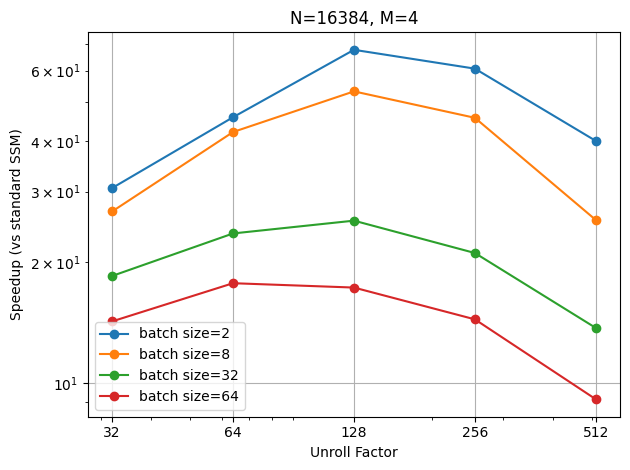
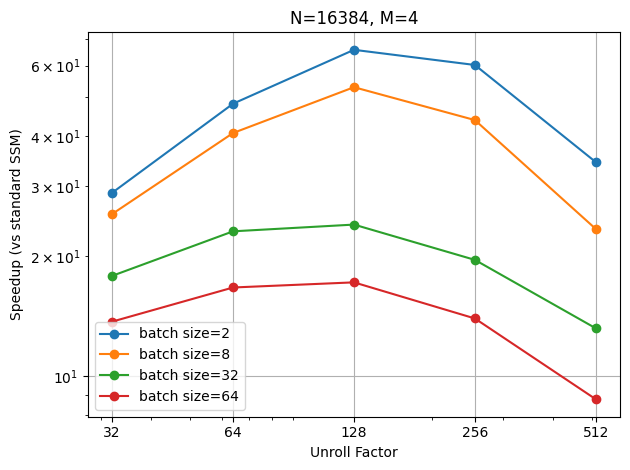
update benchmark results

diff --git a/_posts/2025-06-27-unroll-ssm.md b/_posts/2025-06-27-unroll-ssm.md
@@ -112,15 +112,15 @@ naive_allpole_t = Timer(
 naive_allpole_t.blocked_autorange(min_run_time=1.0)
 ```
 ```shell
-<torch.utils.benchmark.utils.common.Measurement object at 0x7d60c6a20770>
+<torch.utils.benchmark.utils.common.Measurement object at 0x71508416b950>
 naive_allpole
 Naive All-Pole Filter
-  Median: 165.85 ms
-  IQR:    4.73 ms (163.46 to 168.19)
+  Median: 182.59 ms
+  IQR:    5.00 ms (180.77 to 185.77)
   6 measurements, 1 runs per measurement, 4 threads
 ```
 
-165.85 ms is relatively slow, but it is expected.
+182.59 ms is relatively slow, but it is expected.
 
 ## State-space model formulation
 
@@ -149,7 +149,7 @@ y[n] &= \mathbf{B}^\top \mathbf{h}[n].
 $$
 
 Here, I simplified the original SSM by omitting the direct path, as it can be derived from the state vector (for the all-pole filter only).
-Here's the PyTorch implementation of it:
+Below is the PyTorch implementation of it:
 
 ```python
 @torch.jit.script
@@ -219,15 +219,15 @@ state_space_allpole_t = Timer(
 state_space_allpole_t.blocked_autorange(min_run_time=1.0)
 ```
 ```shell
-<torch.utils.benchmark.utils.common.Measurement object at 0x7d62d32a5160>
+<torch.utils.benchmark.utils.common.Measurement object at 0x714e42f440b0>
 state_space_allpole
 State-Space All-Pole Filter
-  Median: 115.29 ms
-  IQR:    1.47 ms (114.87 to 116.34)
-  9 measurements, 1 runs per measurement, 4 threads
+  Median: 130.03 ms
+  IQR:    3.13 ms (128.76 to 131.89)
+  8 measurements, 1 runs per measurement, 4 threads
 ```
 
-Interestingly, the SSM implementation is approximately 30 ms faster.
+Interestingly, the SSM implementation is approximately 50 ms faster.
 
 By using `torch.profiler.profile`, I found that, in the naive implementation, `torch.cat` for updating the last M outputs accounts for a significant portion of the total time (~20%).
 The actual computation, `torch.addmv`, takes only about 10% of the time.
@@ -406,16 +406,16 @@ state_space_allpole_unrolled_t = Timer(
 state_space_allpole_unrolled_t.blocked_autorange(min_run_time=1.0)
 ```
 ```shell
-<torch.utils.benchmark.utils.common.Measurement object at 0x71c957fecd40>
+<torch.utils.benchmark.utils.common.Measurement object at 0x714e4364dfa0>
 state_space_allpole_unrolled
 State-Space All-Pole Filter Unrolled
-  1.89 ms
-  1 measurement, 1000 runs , 4 threads
+  Median: 1.98 ms
+  IQR:    0.02 ms (1.97 to 1.99)
+  6 measurements, 100 runs per measurement, 4 threads
 ```
-1.89 ms! What sorcery is this? That's a whopping 60x speedup compared to the standard SSM implementation!
+1.91 ms! What sorcery is this? That's a whopping 60x speedup compared to the standard SSM implementation!
 
-A closer look at the profiling results shows that in total, 25% of the time is spent on matrix multiplication and addition.
-Interestingly, around 30% of the time is spent on the `torch.flip` operation for preparing the input matrix \\(\mathbf{V}\\).
+A closer look at the profiling results shows that in total, 38% of the time is spent on matrix multiplication and addition.
 The speedup comes with a cost of increased memory usage, requiring more than 2 MB for filtering.
 Not a significant cost for modern Hardwares.
 
@@ -438,7 +438,7 @@ Additionally, the longer the sequence length, the greater the speedup we achieve
 ### Varying filter order
 
 To examine the impact of filter order on speed, I set the batch size to 8 and the sequence length to 16384, and then varied the filter order from 2 to 16.
-It appears that my hypothesis that the best factor is \\(\\sqrt{M}\\) still holds, but the peak gradually shifts to the left as the order increases.
+It appears that my hypothesis that the best factor is \\(\\sqrt{N}\\) still holds, but the peak gradually shifts to the left as the order increases.
 Moreover, the speedup is less significant for higher orders, which is expected as the \\(\mathbf{V}\\) matrix becomes larger.
 
 ![](/images/unroll-ssm/benchmark_order.png)
